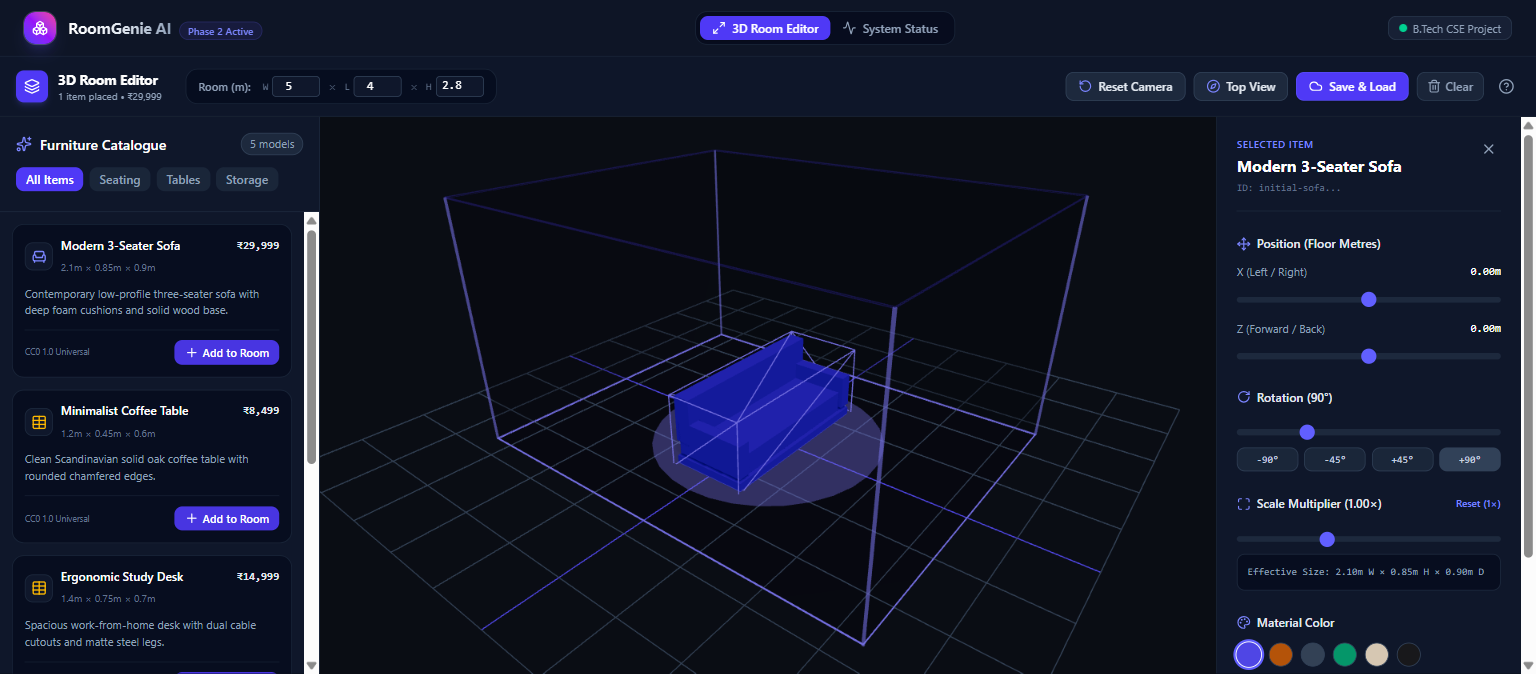
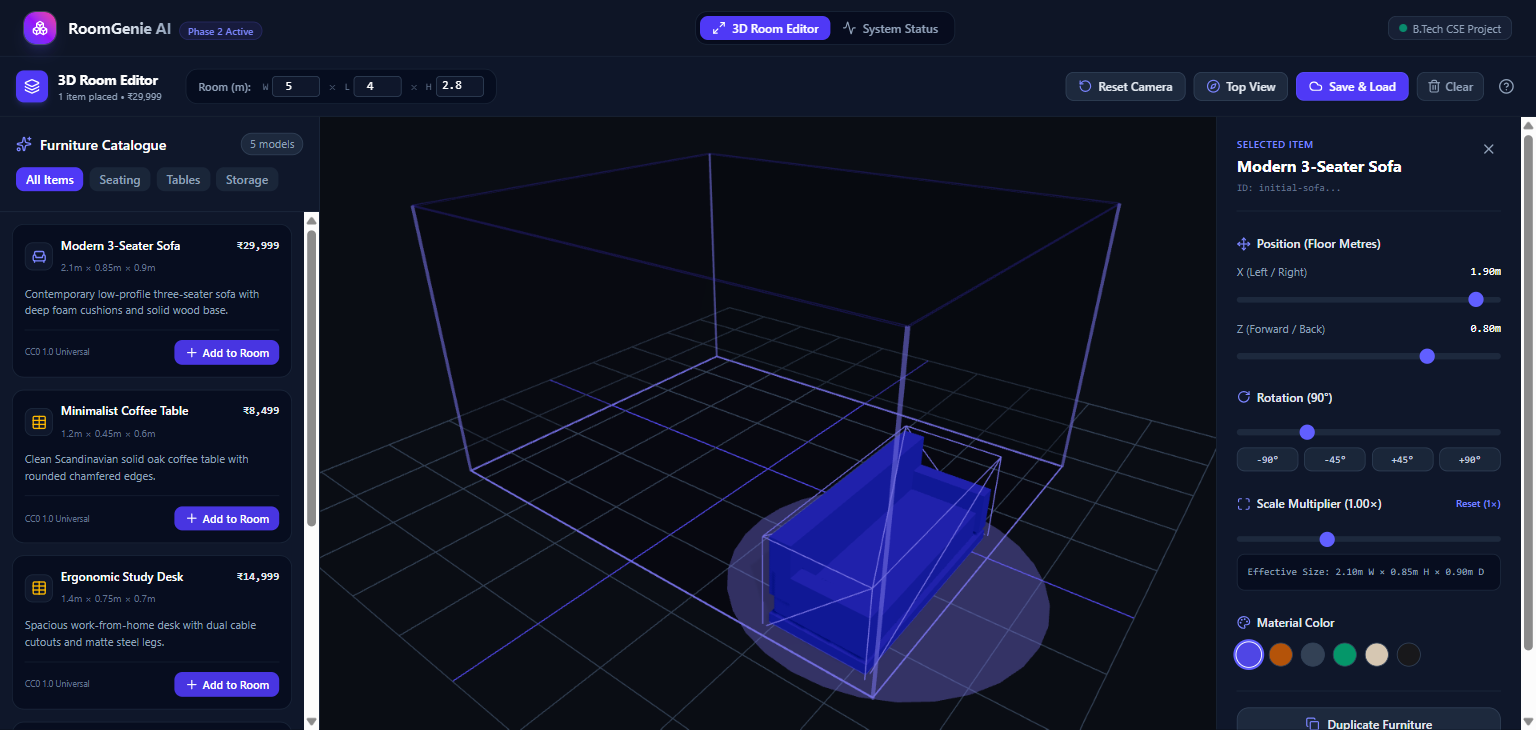
fix(review): preserve rotation in scene parsing clamp and add rotated reload regression tests

diff --git a/frontend/src/editor3d/editor.test.ts b/frontend/src/editor3d/editor.test.ts
@@ -195,6 +195,89 @@ describe('Phase 1: 3D Room Editor Scene State & Validation', () => {
       expect(overrides?.metalness).toBe(0.85);
     });
 
+    it('preserves rotation, position, and containment when serializing and reloading a rotated object near room boundary', () => {
+      // Room 5m (X: -2.5 to +2.5) x 4m (Z: -2.0 to +2.0) x 2.8m (Y: 0 to 2.8)
+      // Sofa: dims [2.1, 0.85, 0.9]. When rotated 90 deg around Y ([0, pi/2, 0]):
+      // Transformed half-extents are: ex = 0.9/2 = 0.45m, ey = 0.85/2 = 0.425m, ez = 2.1/2 = 1.05m
+      // Valid X range is [-2.05m, +2.05m]; Valid Z range is [-0.95m, +0.95m]
+      // (If unrotated, X limit would be 1.45m; placing it at X=1.9m proves rotated extents are respected)
+      const rotatedBoundaryScene: CanonicalScene = {
+        schemaVersion: 1,
+        unit: 'm',
+        room: { width: 5.0, length: 4.0, height: 2.8 },
+        objects: [
+          {
+            id: 'sofa-rotated-boundary',
+            assetId: 'sofa-modern-3seater',
+            name: 'Modern 3-Seater Sofa',
+            position: [1.9, 0.425, 0.8],
+            rotationEuler: [0, Math.PI / 2, 0],
+            scale: [1, 1, 1],
+            dimensions: [2.1, 0.85, 0.9],
+          },
+        ],
+      };
+
+      // 1. Serialize and reload via parseCanonicalScene
+      const serialized = serializeCanonicalScene(rotatedBoundaryScene);
+      const parsed = parseCanonicalScene(serialized);
+
+      expect(parsed).not.toBeNull();
+      expect(parsed?.objects).toHaveLength(1);
+      const item = parsed!.objects[0];
+
+      // Verify rotation is fully preserved
+      expect(item.rotationEuler[0]).toBeCloseTo(0, 4);
+      expect(item.rotationEuler[1]).toBeCloseTo(Math.PI / 2, 4);
+      expect(item.rotationEuler[2]).toBeCloseTo(0, 4);
+
+      // Verify position is preserved and NOT clamped to unrotated X boundary (1.45m)
+      expect(item.position[0]).toBeCloseTo(1.9, 2);
+      expect(item.position[1]).toBeCloseTo(0.425, 2); // Floor level center preserved
+      expect(item.position[2]).toBeCloseTo(0.8, 2);
+
+      // Verify containment within room boundaries
+      const minX = item.position[0] - 0.45;
+      const maxX = item.position[0] + 0.45;
+      const minZ = item.position[2] - 1.05;
+      const maxZ = item.position[2] + 1.05;
+      const minY = item.position[1] - 0.425;
+      const maxY = item.position[1] + 0.425;
+
+      expect(minX).toBeGreaterThanOrEqual(-2.5);
+      expect(maxX).toBeLessThanOrEqual(2.5);
+      expect(minZ).toBeGreaterThanOrEqual(-2.0);
+      expect(maxZ).toBeLessThanOrEqual(2.0);
+      expect(minY).toBeGreaterThanOrEqual(0.0);
+      expect(maxY).toBeLessThanOrEqual(2.8);
+
+      // 2. Load into editorStore and verify store state preserves transforms
+      useEditorStore.getState().loadScene(parsed!);
+      const loadedScene = useEditorStore.getState().scene;
+      expect(loadedScene.objects).toHaveLength(1);
+      const storeItem = loadedScene.objects[0];
+      expect(storeItem.position[0]).toBeCloseTo(1.9, 2);
+      expect(storeItem.position[1]).toBeCloseTo(0.425, 2);
+      expect(storeItem.position[2]).toBeCloseTo(0.8, 2);
+      expect(storeItem.rotationEuler[1]).toBeCloseTo(Math.PI / 2, 4);
+
+      // 3. Clamping enforcement: test that an out-of-bounds rotated object is clamped using ROTATED extents
+      // If rotated object is at Z = 1.3m (exceeds rotated Z limit 0.95m, even though unrotated would allow 1.55m):
+      const oobRotatedScene: CanonicalScene = {
+        ...rotatedBoundaryScene,
+        objects: [
+          {
+            ...rotatedBoundaryScene.objects[0],
+            position: [1.9, 0.425, 1.3],
+          },
+        ],
+      };
+      const parsedOob = parseCanonicalScene(serializeCanonicalScene(oobRotatedScene));
+      expect(parsedOob).not.toBeNull();
+      // Should be clamped to max allowable rotated Z (0.95m)
+      expect(parsedOob!.objects[0].position[2]).toBeCloseTo(0.95, 2);
+    });
+
     it('rejects unsupported schema versions explicitly', () => {
       const baseJson = {
         schemaVersion: 2, // Unsupported future schema

diff --git a/frontend/src/editor3d/store/editorStore.ts b/frontend/src/editor3d/store/editorStore.ts
@@ -106,7 +106,8 @@ export const useEditorStore = create<EditorState>((set, get) => ({
         initialPos,
         item.dimensions,
         state.scene.room,
-        [1, 1, 1]
+        [1, 1, 1],
+        [0, 0, 0]
       );
 
       const newObject: FurniturePlacement = {
@@ -246,7 +247,7 @@ export const useEditorStore = create<EditorState>((set, get) => ({
       source.position[1],
       source.position[2] + 0.3,
     ];
-    const clampedPos = clampPositionToRoom(offsetPos, source.dimensions, scene.room, source.scale);
+    const clampedPos = clampPositionToRoom(offsetPos, source.dimensions, scene.room, source.scale, source.rotationEuler);
 
     const clone: FurniturePlacement = {
       ...source,

diff --git a/frontend/src/editor3d/validation/sceneValidation.ts b/frontend/src/editor3d/validation/sceneValidation.ts
@@ -186,7 +186,7 @@ export function parseCanonicalScene(rawJson: string): CanonicalScene | null {
 
       const scale: Vector3Tuple = validateScale(obj.scale);
       const rotation: Vector3Tuple = validateRotation(obj.rotationEuler);
-      const position: Vector3Tuple = clampPositionToRoom(obj.position, dims, room, scale);
+      const position: Vector3Tuple = clampPositionToRoom(obj.position, dims, room, scale, rotation);
 
       // Preserve all supported material overrides (color, roughness, metalness)
       let materialOverrides: FurniturePlacement['materialOverrides'] = undefined;

diff --git a/backend/apps/designs/tests.py b/backend/apps/designs/tests.py
@@ -301,3 +301,35 @@ class DesignPersistenceTests(APITestCase):
         design.refresh_from_db()
         self.assertIsNone(design.room)
         self.assertEqual(design.title, "Design with Room")
+
+    def test_save_and_retrieve_rotated_object_near_room_boundary(self):
+        import math
+        self.client.credentials(HTTP_AUTHORIZATION=f'Token {self.token_a.key}')
+        # Room 5m x 4m x 2.8m. Sofa rotated 90 deg around Y:
+        # dims: [2.1, 0.85, 0.9]. ex=0.45m, ey=0.425m, ez=1.05m.
+        # Position [1.9, 0.425, 0.8] is near right/front boundary but strictly contained:
+        # X: [1.45, 2.35] inside [-2.5, 2.5]
+        # Z: [-0.25, 1.85] inside [-2.0, 2.0]
+        # Y: [0.0, 0.85] on floor and under ceiling
+        rotated_scene = create_sample_scene(room_w=5.0, room_l=4.0, room_h=2.8)
+        rotated_scene['objects'][0]['position'] = [1.9, 0.425, 0.8]
+        rotated_scene['objects'][0]['rotationEuler'] = [0.0, math.pi / 2, 0.0]
+
+        create_response = self.client.post(self.list_url, {
+            'title': 'Rotated Boundary Living Room',
+            'scene_json': rotated_scene
+        }, format='json')
+        self.assertEqual(create_response.status_code, status.HTTP_201_CREATED)
+        design_id = create_response.data['id']
+
+        # Retrieve and verify exact transformed state preservation
+        detail_url = reverse('designs:design-detail', kwargs={'pk': design_id})
+        get_response = self.client.get(detail_url)
+        self.assertEqual(get_response.status_code, status.HTTP_200_OK)
+
+        retrieved_obj = get_response.data['scene_json']['objects'][0]
+        self.assertAlmostEqual(retrieved_obj['position'][0], 1.9, places=2)
+        self.assertAlmostEqual(retrieved_obj['position'][1], 0.425, places=2)
+        self.assertAlmostEqual(retrieved_obj['position'][2], 0.8, places=2)
+        self.assertAlmostEqual(retrieved_obj['rotationEuler'][1], math.pi / 2, places=4)
+

diff --git a/README.md b/README.md
@@ -119,7 +119,7 @@ pip install -r requirements.txt
 Run checks and tests:
 ```powershell
 python manage.py check               # Django system checks
-python manage.py test                # Run full Django test suite (38 tests across accounts, rooms, furniture, designs)
+python manage.py test                # Run full Django test suite (39 tests across accounts, rooms, furniture, designs)
 python manage.py seed_furniture      # Seed initial 5 CC0 architectural furniture catalogue assets
 ```
 
@@ -177,7 +177,7 @@ Ensure `.env` matches with `DB_PORT=5433` (configured as default in `.env.exampl
   - Full CRUD endpoints: `/api/v1/rooms/`, `/api/v1/furniture/`, `/api/v1/designs/` with design cloning (`duplicate`)
   - Initial catalogue seed command (`seed_furniture`)
   - Frontend persistence service ([`frontend/src/services/designApi.ts`](frontend/src/services/designApi.ts)) & Save/Load UI modal
-  - Comprehensive automated test suite: 38 Django tests, 21 frontend Vitest tests, 0 lint warnings
+  - Comprehensive automated test suite: 39 Django tests, 22 frontend Vitest tests, 0 lint warnings
 - [ ] **Phase 3 — Furniture catalogue and budget**
 - [ ] **Phase 4 — AI interior-design agent**
 - [ ] **Phase 5 — Room photo analysis**

diff --git a/DEVELOPMENT_CHECKLIST.md b/DEVELOPMENT_CHECKLIST.md
@@ -26,8 +26,8 @@ Use this after every milestone. Keep it honest: only tick items you personally v
 - [x] All private resources enforce ownership (strictly isolated by request.user; cross-user queries return 404; demo auth gated behind `ALLOW_DEMO_AUTH = DEBUG and ...` configuration and rejected with 403 in production).
 - [x] Serializers validate input and return useful error messages (authoritative canonical schema validation for units, bounds, dimensions, transforms, and full 3D rotated footprint containment).
 - [x] Migrations apply cleanly from an empty development database (authtoken, rooms, furniture, designs initial migrations).
-- [x] Relevant Django tests pass (38/38 tests pass across accounts, rooms, furniture, designs, including demo auth gating and boundary/rotation containment regression tests).
-- [x] Frontend TypeScript/build checks pass (0 type errors, 0 lint warnings, 21 Vitest tests pass).
+- [x] Relevant Django tests pass (39/39 tests pass across accounts, rooms, furniture, designs, including demo auth gating and boundary/rotation containment regression tests).
+- [x] Frontend TypeScript/build checks pass (0 type errors, 0 lint warnings, 22 Vitest tests pass).
 
 ## Catalogue and budget
 
